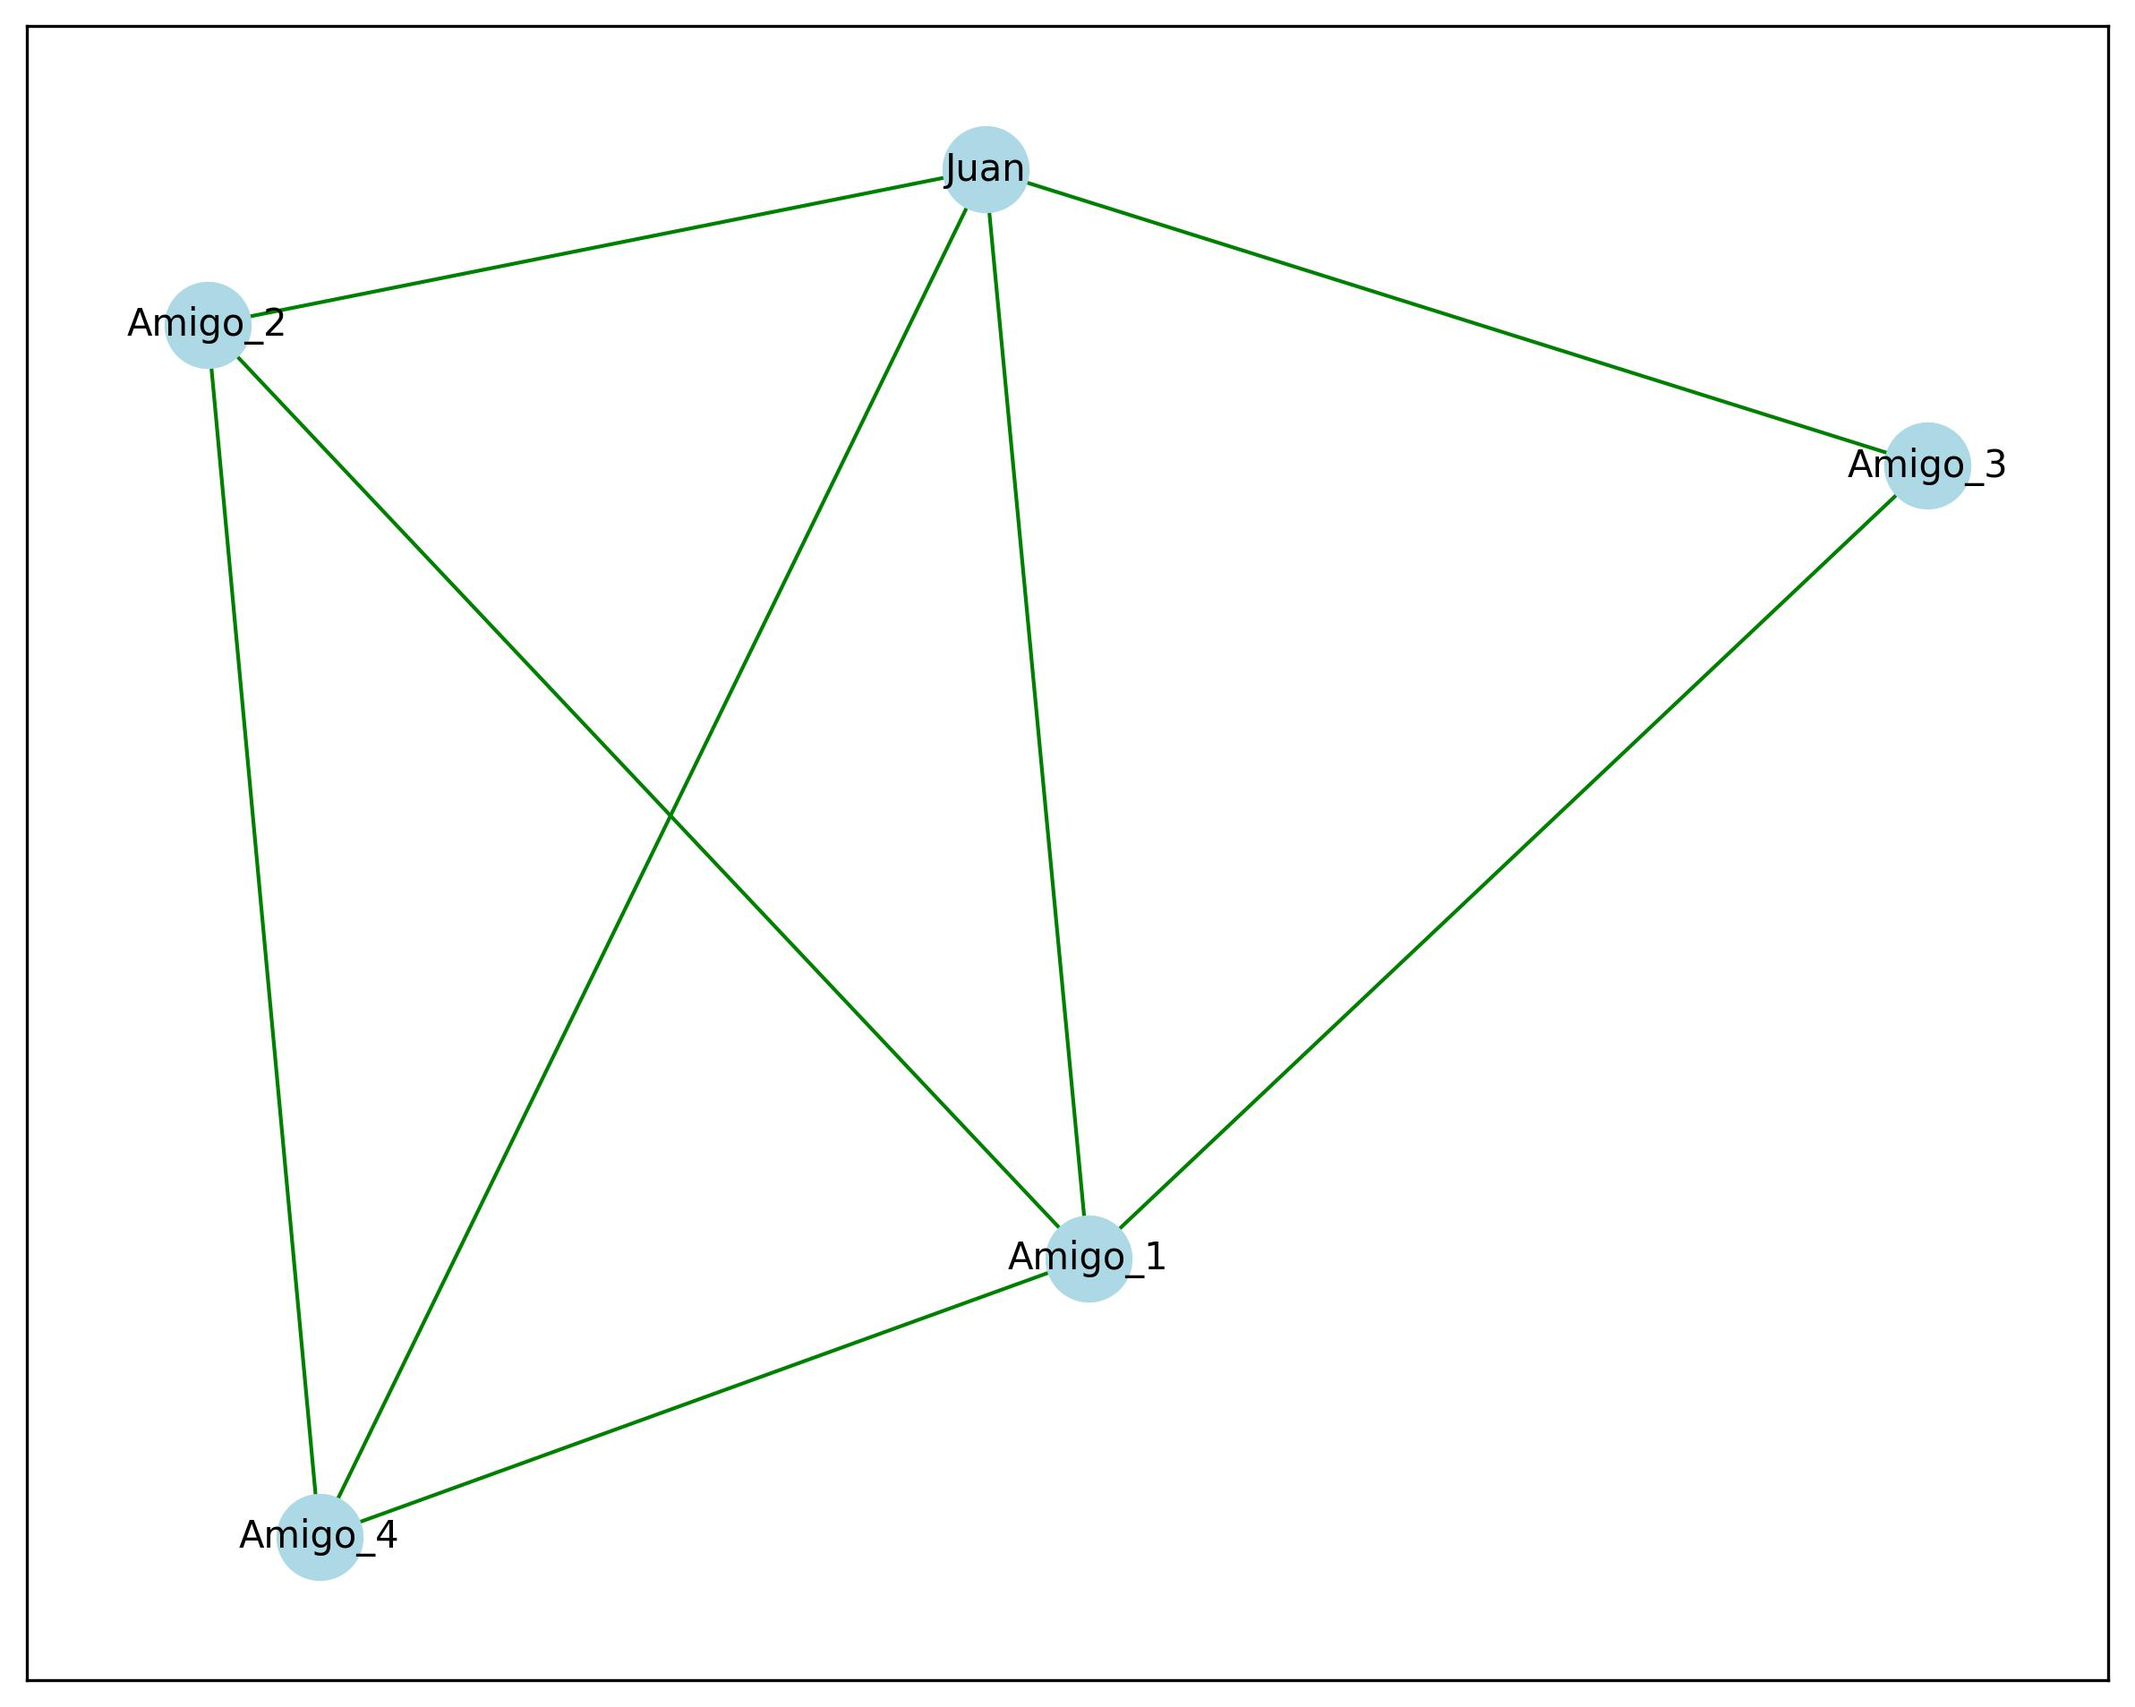
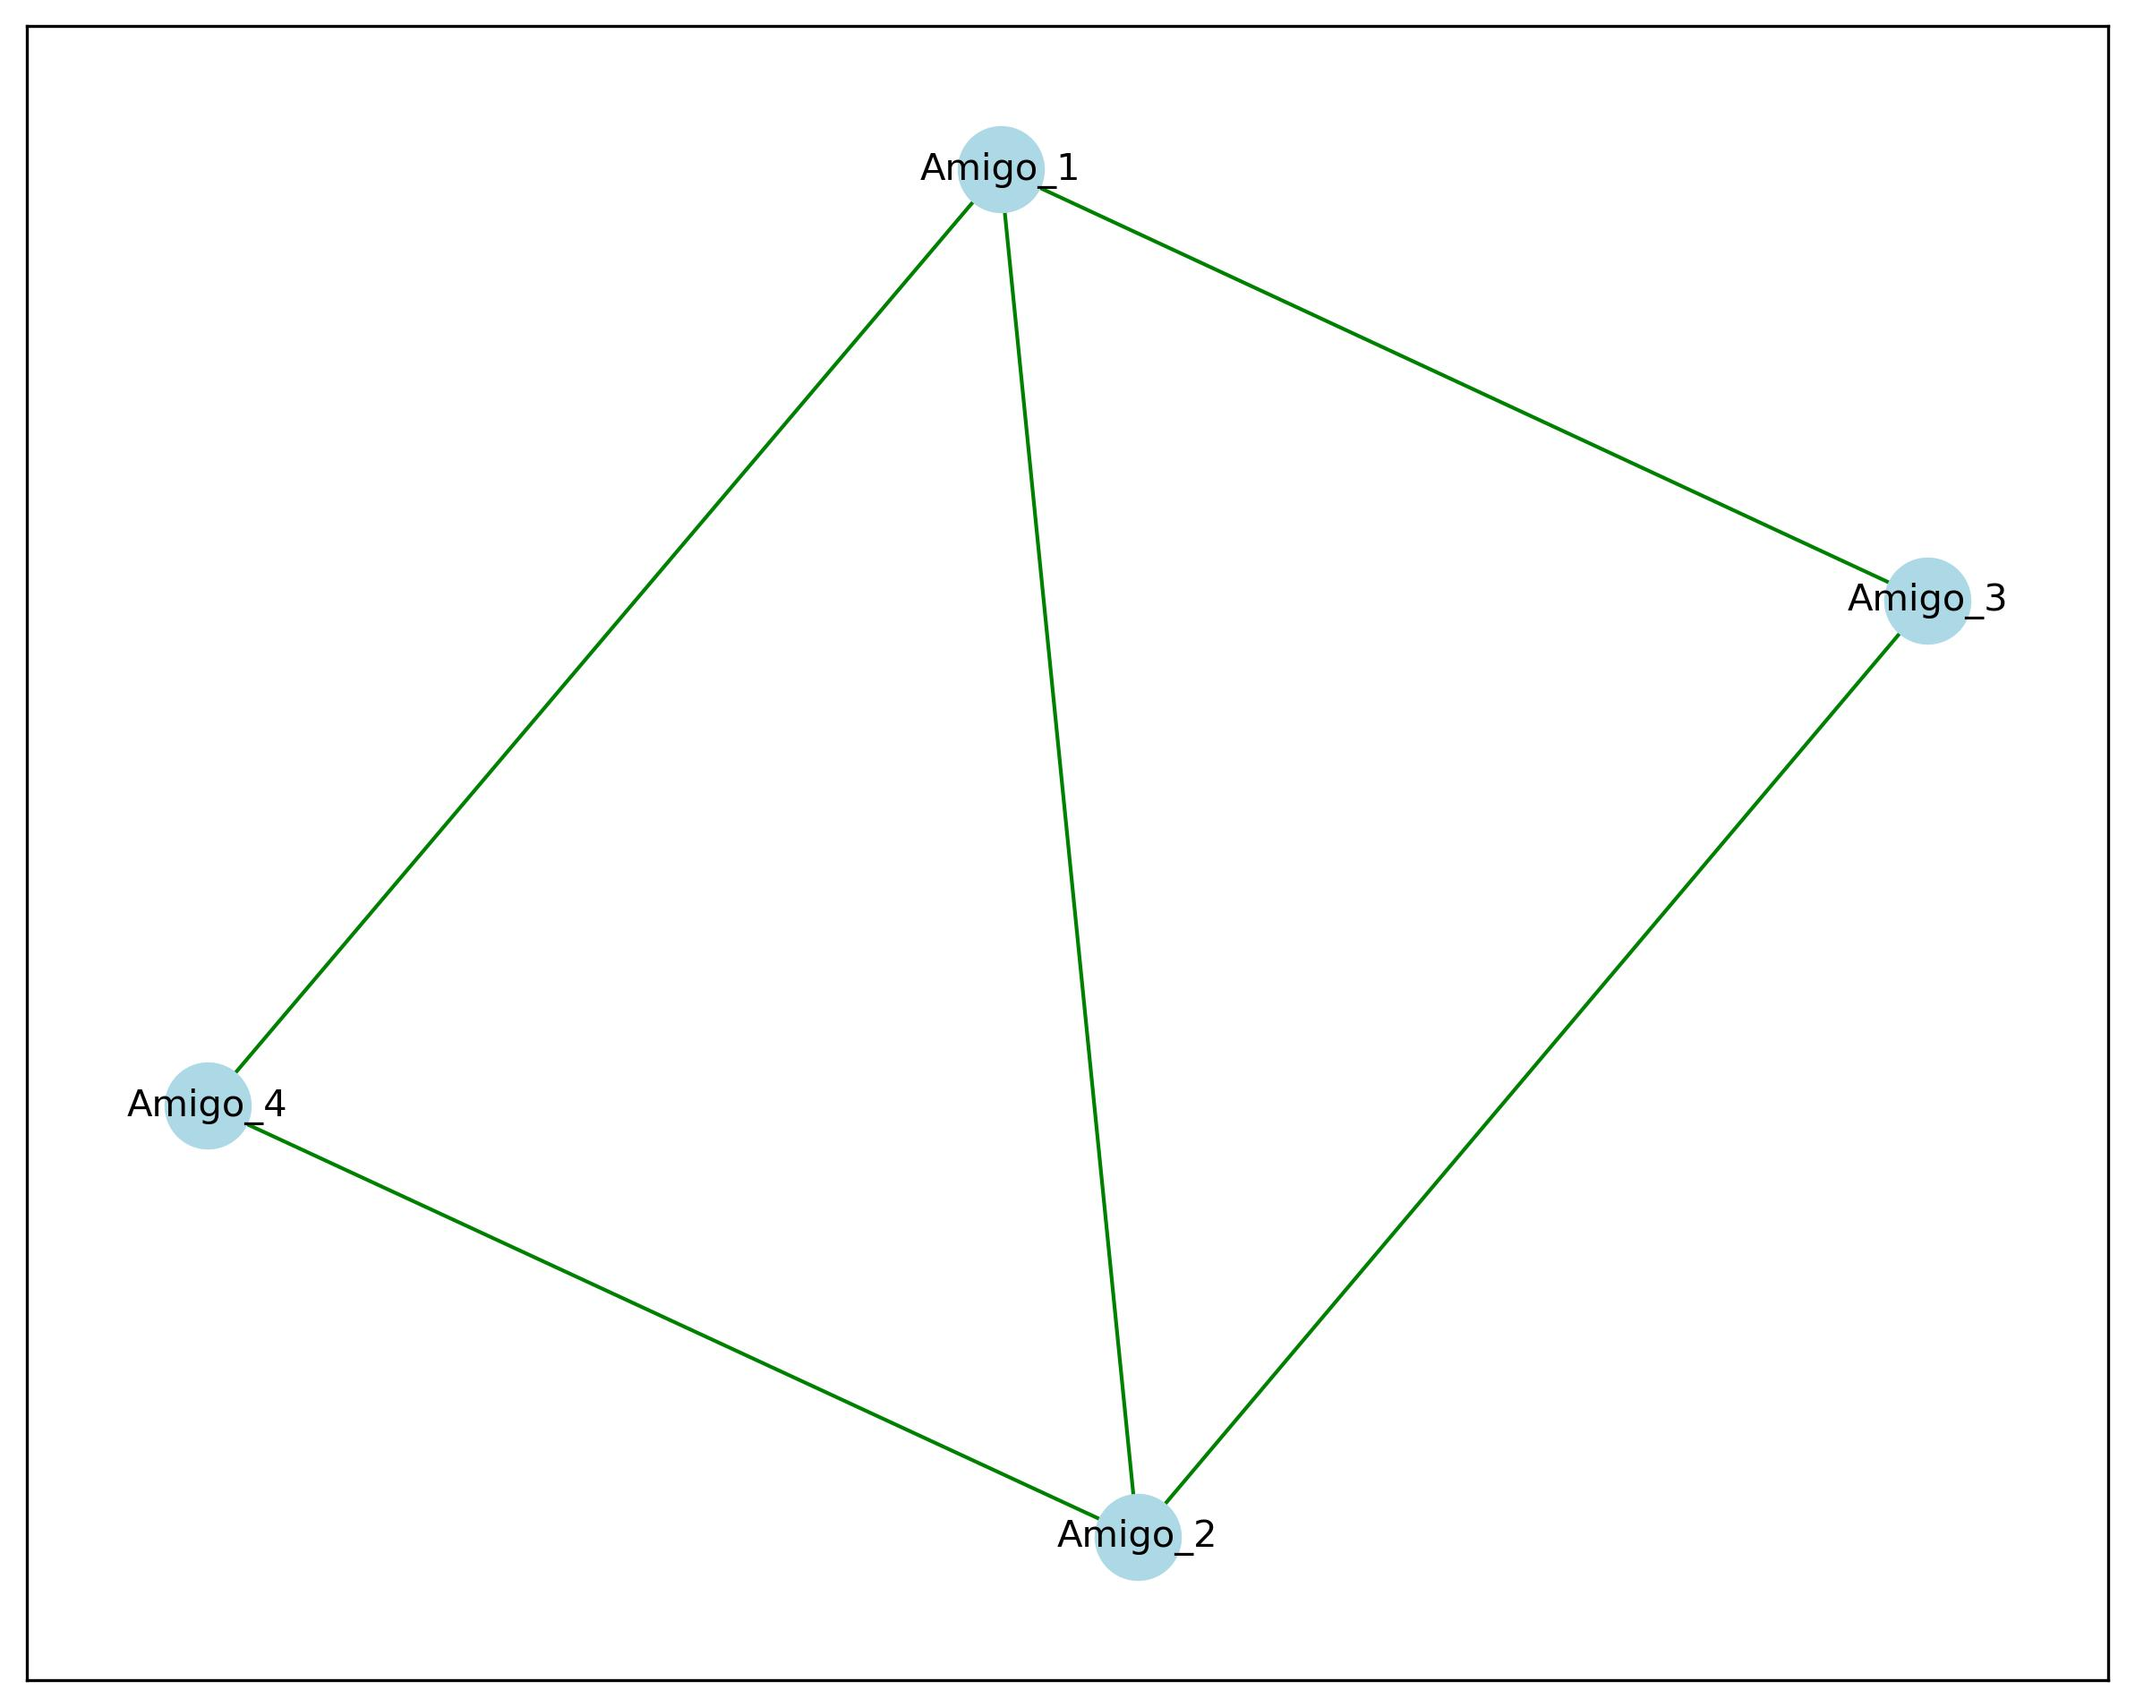
Last commit before upload

diff --git a/punto-3/3.py b/punto-3/3.py
@@ -20,12 +20,16 @@
 
 # La entrada consiste en un archivo de texto llamado input.txt que contiene la información.
 # La estructura del archivo es la siguiente:
-#   Nodo: Amigo1: Amigo2, Amigo3, Amigo4, Amigo5
-#   Nodo: Amigo1: Amigo3, Amigo4
-#   Nodo: Amigo1: Amigo2
-# Para cada línea, el primer amigo es el nodo y los amigos que le siguen son los amigos.
+#   Amigo1: Amigo2, Amigo4, Amigo5
+#   Amigo2: Amigo3, Amigo1
+#   Amigo3: Amigo2
+#   ...
+# Para cada línea, el primer amigo es el nodo y la lista de amigos que le siguen son los amigos con quienes no está peleado.
 # por tanto, para leer el archivo vamos linea por linea y separamos el nodo de los amigos
 # con el caracter ':'. Luego separamos los amigos con el caracter ','.
+
+# Nota: Juan, el dueño del apartamento, no está incluido en la lista de amigos. se asume que
+# Juan no se ha peleado con ninguno de sus amigos (pues de lo contrario no podría invitarlos).
 
 
 import os
@@ -73,8 +77,11 @@ def read_input():
 # La salida cosiste en un archivo de texto llamado output.txt que contiene la información de las reuniones, junto con un mensaje
 # que indica si es posible organizar las dos reuniones. La estructura del archivo es la siguiente:
 #   Es posible organizar las dos reuniones (o en su defecto: No es posible organizar las dos reuniones).
+#   En caso de ser posible, se indican las reuniones de la siguiente forma:
 #   Reunión 1: Amigo1, Amigo2, Amigo3, Amigo4
 #   Reunión 2: Amigo5, Amigo6, Amigo7
+
+# Nota: En caso de organizar una reunión vacia, se denotará como un set vacio 'set()'.
 # Para cada reunión, se indica el número de la reunión y los amigos que asistirán a la reunión. Si es posible, no hay lineas de reuniones.
 
 # Añadimos a la ruta del archivo que se va a escribir.

diff --git a/generador-grafos/grafo_punto-3.py b/generador-grafos/grafo_punto-3.py
@@ -36,18 +36,17 @@ def crear_grafo_amistades(num_amigos):
     # Creamos un grafo vacío.
     G = nx.Graph()
     
-    # Generamos los nodos del grafo. Estos son Juan y sus amigos.
-    nombres = ['Juan'] + [f'Amigo_{i}' for i in range(1, num_amigos)]
+    # Generamos los nodos del grafo. Estos son los amigos de Juan (SIN JUAN).
+    # Se generan con nombres de la forma 'Amigo_i'.
+    nombres = [f'Amigo_{i}' for i in range(1, num_amigos)]
     G.add_nodes_from(nombres)
+
     
-    # Juan conoce a todos sus amigos.
-    for i in range(1, len(nombres)):
-        G.add_edge('Juan', nombres[i])
-    
-    # LOs amigos entre sí estan conectados por un eje con probabilidad del 50%.
-    for i in range(1, len(nombres)):
+    # Los amigos entre sí estan conectados por un eje con probabilidad del 80%.
+    # arbitrariamente escogemos que haya una probabilidad del 20% de que si se peleen.
+    for i in range(len(nombres)):
         for j in range(i + 1, len(nombres)):
-            if random.random() < .5:
+            if random.random() < .8:
                 G.add_edge(nombres[i], nombres[j])
     
     # Dibujamos el grafo vacio.
@@ -88,7 +87,7 @@ def crear_grafo_amistades(num_amigos):
 if __name__ == '__main__':
 
     # Solicitamos el número de amigos.
-    num_amigos = int(input("Ingrese el número de amigos (incluyendo a Juan): "))
+    num_amigos = int(input("Ingrese el número de amigos (sin contar a Juan): "))
     
     # Creamos el grafo de amistades y lo guardamos.
     crear_grafo_amistades(num_amigos)

diff --git a/punto-5/5.py b/punto-5/5.py
@@ -105,8 +105,15 @@ def write_output(mst):
 
 # Estrategia:
 
-# 1. Esto es basicamente un mst. Se puede usar el algoritmo de Prim para encontrar el árbol de expansión
+# La solución a este problema es basicamente un mst. Se puede usar el algoritmo de Prim para encontrar el árbol de expansión
 # minimom que es el minimo costo para que todos los nodos estén conectados.
+
+# Explicación de porque el MST es la solución:
+# Dado que queremos que todos los nodos estén conectados por doble vía y que el costo sea el mínimo posible, podemos
+# pensar en el grafo como un grafo no dirigido, donde cada arista tiene un peso que representa el costo de convertir esa
+# vía en doble vía. Si encontramos el árbol de expansión mínima de este grafo, entonces habremos encontrado la solución
+# que conecta todos los nodos con el menor costo posible.
+
 
 import heapq # Priority Queue
 

diff --git a/README.md b/README.md
@@ -2,6 +2,10 @@
 
 Este repositorio contiene dos ejercicios de grafos (Punto 3 y Punto 5), los cuales se describen a continuación.
 
+## Autores
+
+- **Juan Camilo Sánchez** - [juancamilosanchez](
+
 ## Punto 3: Distribución de Amigos en Reuniones
 
 ### Descripción
@@ -12,35 +16,39 @@ Juan quiere invitar a sus amigos a su nuevo apartamento, pero algunas parejas de
 
 El repositorio contiene los siguientes scripts para resolver el Punto 3:
 
-1. **Algoritmo de Distribución**:
-   - `main.py`: Determina si es posible organizar las dos reuniones y genera los grupos de amigos.
-   - `input.txt`: Contiene los datos de los amigos y sus relaciones de amistad.
-   - `output.txt`: Guarda el resultado, indicando si es posible organizar las reuniones y los grupos.
+1. **Algoritmo de Solución (Ubicado en /Punto-3)**:
+   - `main.py`: Algoritmo que determina si es posible organizar las dos reuniones y genera los grupos de amigos. Se describe mejor la estrategia de solución en el archivo.
+   - `input.txt`: Contiene los datos de los amigos y sus relaciones de amistad que son la entrada del algoritmo (Su estructura se detalla en el archivo main.py del punto 3).
+   - `output.txt`: Guarda el resultado del programa, indicando si es posible organizar las reuniones y los grupos en los que se dividen los amigos (Si es posible) (Su estructura se detalla en el archivo main.py del punto 3).
 
-2. **Generador de Grafos**:
-   - `graph_generator.py`: Genera un grafo aleatorio de amistades y lo guarda en el archivo `input.txt` para ser usado por el algoritmo.
+2. **Generador de Grafos (Ubicado en /generador-grafos)**:
+   - `grafo_punto-3.py`: Genera un grafo aleatorio de amistades y lo guarda en el archivo `input.txt` para ser usado por el algoritmo. Su uso es **opcional**, y su intencioń es facilitar la creación de casos de prueba, pero no es necesario para la ejecución del algoritmo.
+
+
+Adicionalmente se incluye un caso de prueba en `input.txt` que puede ser utilizado para probar el algoritmo. Para el grafo de este caso de prueba, se incluye una imagen 'grafo.jpg' que muestra la estructura de las relaciones de amistad.
 
 ### Ejemplo (Punto 3)
 
 **Entrada (`input.txt`)**:
-Juan: Pedro, Maria
-Pedro: Juan
-Maria: Juan, Ana
-Carlos: Ana
-Ana: Maria, Carlos
+
+Para cada línea del archivo de entrada, la primera palabra de cada linea representa un amigo, y la lista de amigos que le siguen (despues de un ':') son los amigos con quienes no está peleado/peleada, separados por comas. Por ejemplo, la siguiente entrada:
+
+```
+Juan: Pedro, Maria, Carlos
+Carlos: Juan
+Pedro: Juan, Maria
+Maria: Juan, Pedro
+```
 
 **Salida (`output.txt`)**:
-En este caso, el algoritmo no puede dividir a los amigos en dos grupos sin que algunos de ellos, que tienen conflictos, queden en el mismo grupo.
 
-En este caso, el algoritmo no puede dividir a los amigos en dos grupos sin que algunos de ellos, que tienen conflictos, queden en el mismo grupo.
+La salida cosiste en un archivo de texto llamado output.txt que contiene la información de las reuniones, junto con un mensaje que indica si es posible organizar las dos reuniones. Por ejemplo, la siguiente salida:
 
-### Algoritmo
-
-1. El archivo `input.txt` contiene las relaciones de amistad entre los amigos, donde cada línea muestra un amigo y con quiénes tiene conflicto.
-
-2. Usamos **Búsqueda en Anchura (BFS)** para recorrer el grafo y asignar a los amigos en dos grupos. Si un amigo está en conflicto con otro, se aseguran de que estén en grupos separados.
-
-3. Si es posible dividir a todos en dos grupos sin conflictos, el algoritmo muestra las reuniones en `output.txt`. Si no, indica que no se pueden organizar las reuniones.
+```
+Es posible organizar las dos reuniones
+Reunion 1: {'Pedro', 'Juan', 'Maria'}
+Reunion 2: {'Carlos'}
+```
 
 
 ## Punto 5: Optimización de Vías en una Ciudad
@@ -53,30 +61,36 @@ La ciudad fue diseñada originalmente con calles de una sola vía. A medida que 
 
 El repositorio contiene los siguientes scripts para resolver el Punto 5:
 
-1. **Algoritmo de Optimización de Vías**:
-   - `main.py`: Implementa el algoritmo que determina qué vías deben convertirse en doble vía para lograr la mínima conversión de costo, conectando toda la ciudad.
-   - `input.txt`: Contiene los datos de las vías de la ciudad, sus conexiones y los costos de conversión.
-   - `output.txt`: Guarda el resultado, indicando qué vías deben convertirse a doble vía y el costo asociado.
+1. **Algoritmo de Solución (Ubicado en /Punto-5)**:
+   - `main.py`: Implementa el algoritmo que determina qué vías deben convertirse en doble vía para lograr la mínima conversión de costo, conectando toda la ciudad. Se describe mejor la estrategia de solución en el archivo.
+   - `input.txt`: Contiene los datos de las vías de la ciudad, sus conexiones y los costos de conversión (Su estructura se detalla en el archivo main.py del punto 5).
+   - `output.txt`: Guarda el resultado, indicando qué vías deben convertirse a doble vía y el costo asociado a la conversión (Su estructura se detalla en el archivo main.py del punto 5).
 
-2. **Generador de Grafos**:
-   - `graph_generator.py`: Genera un grafo aleatorio que representa las vías de la ciudad, sus conexiones y los costos, y lo guarda en el archivo `input.txt`.
+2. **Generador de Grafos (Ubicado en /generador-grafos)**:
+   - `graph_generator.py`: Genera un grafo aleatorio que representa las vías de la ciudad, sus conexiones y los costos, y lo guarda en el archivo `input.txt`. Su uso es **opcional**, y su intención es facilitar la creación de casos de prueba, pero no es necesario para la ejecución del algoritmo.
 
 ### Ejemplo (Punto 5)
 
 **Entrada (`input.txt`)**:
 
+```
 A: (B, 6), (D, 1), (E, 7)
 B: (A, 6), (D, 4), (E, 3)
 C: (E, 10)
 D: (A, 1), (B, 4)
 E: (A, 7), (B, 3), (C, 10)
+```
+
+En este ejemplo, cada línea representa una vía de la ciudad, donde la primera letra es el nombre de la vía, seguido de las conexiones con otras vías y los costos de conversión. Por ejemplo, la vía **A** está conectada con las vías **B**, **D**, y **E**, con costos de conversión de 6, 1, y 7 respectivamente.
 
 **Salida (`output.txt`)**:
 
-
+```
 En este ejemplo, el algoritmo determina que las vías **A a D**, **B a E**, y **D a B** deben convertirse en doble vía para conectar toda la ciudad con el mínimo costo.
+```
 
-### Algoritmo
+
+### Estrategia de Solución (Punto 5)
 
 1. **Entrada**: El archivo `input.txt` contiene un grafo que describe las vías de la ciudad, donde cada línea representa una vía y las conexiones con otras vías junto con los costos de conversión.
 
@@ -94,9 +108,9 @@ En este ejemplo, el algoritmo determina que las vías **A a D**, **B a E**, y **
 
 Este proyecto requiere Python 3 y las siguientes bibliotecas:
 
-- **networkx**: Para la creación y manipulación de grafos.
-- **matplotlib**: Para la visualización de los grafos generados.
-- **os**, **random**: Para manejar archivos y generar relaciones aleatorias.
+- **os**, **random**: Para manejar archivos y generar relaciones aleatorias. Estas bibliotecas vienen incluidas con Python 3.
+- **networkx (Opcional)**: Para la creación y manipulación de grafos para datos de prueba. Su uso no es necesario para la ejecución del algoritmo, y unicamente facilita la creación de casos de prueba.
+- **matplotlib (Opcional)**: Para la visualización de los grafos generados. Su uso no es necesario para la ejecución del algoritmo, y unicamente facilita la creación de casos de prueba.
 
 ### Instalación en Windows
 
@@ -135,7 +149,7 @@ Este proyecto requiere Python 3 y las siguientes bibliotecas:
    python 3.py
 
 
-2. Si desea generar los grafos aleatorios, puede ejecutar los generadores correspondientes. Para el **Punto 3** y el **Punto 5**, se ejecuta el archivo `grafo_punto-3.py` y `grafo_punto_5` respectivamente, ejemplo para el punto 3:
+2. Si desea generar los grafos aleatorios, puede ejecutar los generadores correspondientes. Para el **Punto 3** y el **Punto 5**, puede ejecutar el archivo `grafo_punto-3.py` o `grafo_punto_5` respectivamente, ejemplo para el punto 3:
 
    Para el **Punto 3**:
    ```bash
